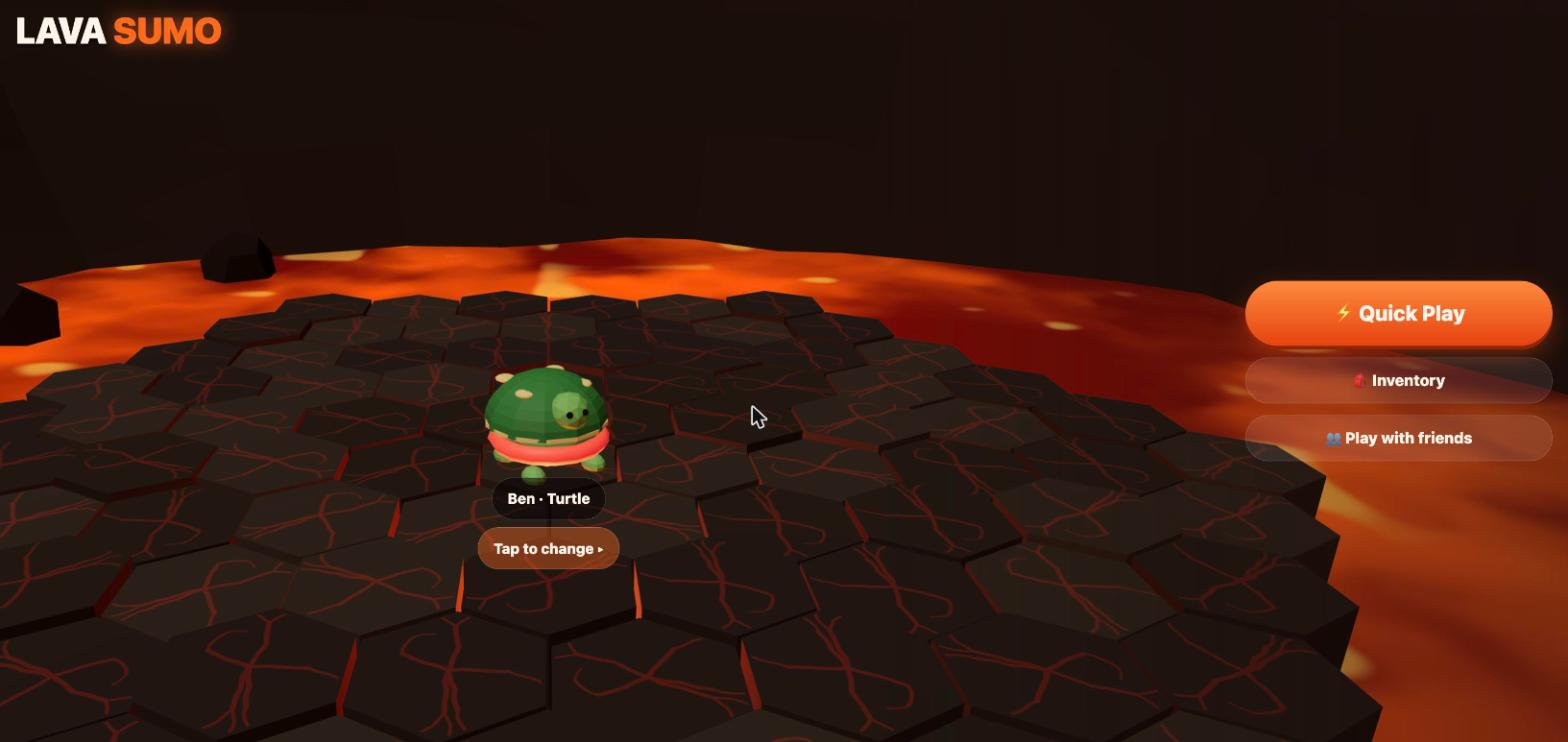
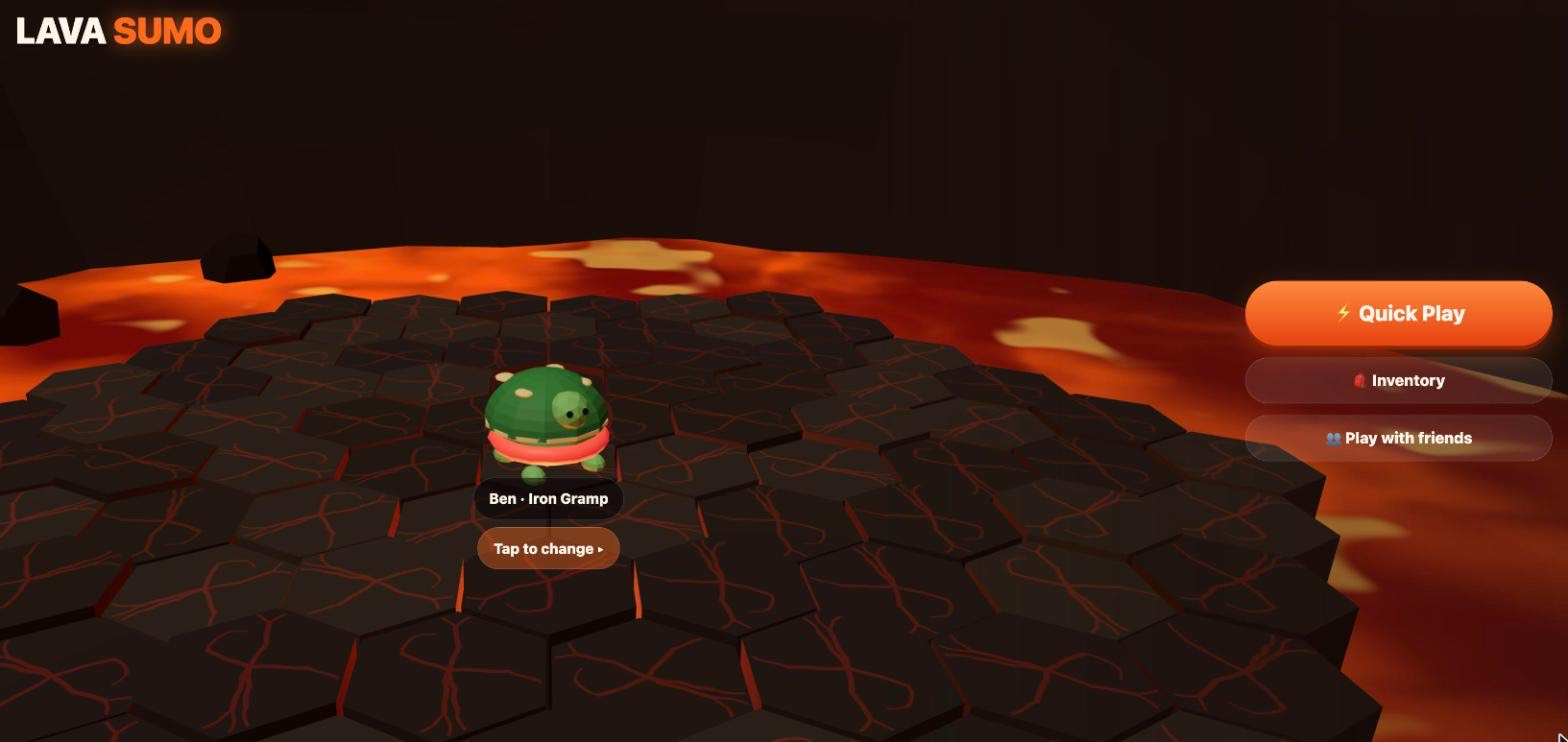
docs: new fighter names and portrait art in README and case study

diff --git a/docs/portfolio/CASE-STUDY.md b/docs/portfolio/CASE-STUDY.md
@@ -54,9 +54,13 @@ Open link → pick a fighter → 90-second match → results → **Play again**.
 
 ### Three fighters, one button each
 Each fighter has one skill on one button, so it's easy to learn and still has tactics:
-- **Elephant** (tank): *Ground Slam* knocks everyone nearby away.
-- **Monkey** (speedster): *Dash* is a quick lunge to shove someone off.
-- **Turtle** (anchor): *Shell* makes it immovable for 1.5 s, and attackers bounce off.
+
+| ![Magma Tank](img/fighter-elephant.jpg) | ![Ember Dash](img/fighter-monkey.jpg) | ![Iron Gramp](img/fighter-turtle.jpg) |
+|:---:|:---:|:---:|
+| **Magma Tank** (elephant, tank) | **Ember Dash** (monkey, speedster) | **Iron Gramp** (turtle, anchor) |
+| *Ground Slam* knocks everyone nearby away | *Dash* is a quick lunge to shove someone off | *Shell* makes it immovable for 1.5 s, and attackers bounce off |
+
+The fighters started as placeholder emoji (🐘 🐒 🐢) so the gameplay could be tested first. Once the roles felt right, I gave each one a name and a portrait that says its role at a glance: a heavy stomper, a grinning daredevil, and a tough old grandpa who doesn't budge. Each portrait is compressed to about 25 KB, so the art adds almost nothing to the download on mobile data.
 
 | Inventory | Quick Play setup |
 |---|---|
@@ -134,18 +138,18 @@ Before shipping bot difficulties I had the computer play **200 matches per pairi
 Tried and dropped, because the data said so: two "smarter" bot behaviors made Hard bots *more passive* and **lowered** their win rate.
 
 ### Fighter balance: measured, shipped, then fixed from playtest
-The simulation flagged that **Monkey won 68% of Hard-bot matches** (fair would be ~33%). I **chose to ship anyway** and let real players confirm it. Every tuning option that fixed it changed a core feel decision, and I didn't want to tune for bots instead of people.
+The simulation flagged that **Ember Dash (the monkey) won 68% of Hard-bot matches** (fair would be ~33%). I **chose to ship anyway** and let real players confirm it. Every tuning option that fixed it changed a core feel decision, and I didn't want to tune for bots instead of people.
 
-The first playtest confirmed it ("Monkey's skill is too good"), so I compared three fixes in simulation:
+The first playtest confirmed it ("Monkey's skill is too good", from before the fighters had names), so I compared three fixes in simulation:
 
-| Option | Monkey win share (600 matches, Hard bots) |
+| Option | Ember Dash win share (600 matches, Hard bots) |
 |---|---|
 | Original (6 s cooldown) | 68.0% |
 | 8 s cooldown | 64.1% |
 | 8 s cooldown + shorter dash | 63.0% |
 | **10 s cooldown (shipped to test)** | **57.6%** |
 
-The data also showed one-on-one Monkey still wins about 98%, so the next lever, if needed, is the dash's knockback and not the cooldown.
+The data also showed one-on-one Ember Dash still wins about 98%, so the next lever, if needed, is the dash's knockback and not the cooldown.
 
 ---
 
@@ -178,7 +182,7 @@ The lag report is the trigger I'd set in advance for building prediction: I defe
 | Now | Next | Later |
 |---|---|---|
 | Fix online lag (smooth updates, then instant local movement) | Phone playtest with 3–4 friends on cellular → release multiplayer to the live site | Analytics (rematch rate, matches per session) to measure against the traction gate |
-| Re-check Monkey balance with real players | Art pass for fighters (3D characters) | More arenas (the map picker already has slots), skins |
+| Re-check Ember Dash balance with real players | 3D fighter models that match the new portraits | More arenas (the map picker already has slots), skins |
 
 ---
 

diff --git a/README.md b/README.md
@@ -18,7 +18,7 @@ Up to 4 players stand on basalt tiles over a lava lake. The floor cracks and mel
 |---|---|---|
 | 1 · Core loop (local) | Shared deterministic sim, hex arena, collapse, shove, elimination, joystick + keyboard, 3 dummies | ✅ Live |
 | 2 · Online | Cloudflare Workers + Durable Objects, private rooms, server snapshots + interpolation, reconnection | 🧪 In the test environment, phone playtest underway |
-| 3 · Characters & bots | Elephant / Monkey / Turtle skills, ember spirits, eruption, bot difficulties, solo Quick Play screens | ✅ Live (solo Quick Play) |
+| 3 · Characters & bots | Magma Tank / Ember Dash / Iron Gramp (elephant, monkey, turtle) with portrait art and skills, ember spirits, eruption, bot difficulties, solo Quick Play screens | ✅ Live (solo Quick Play) |
 | 4 · Polish & launch | Art, audio, PWA, analytics, itch.io | ⏳ |
 
 ## Play with friends
